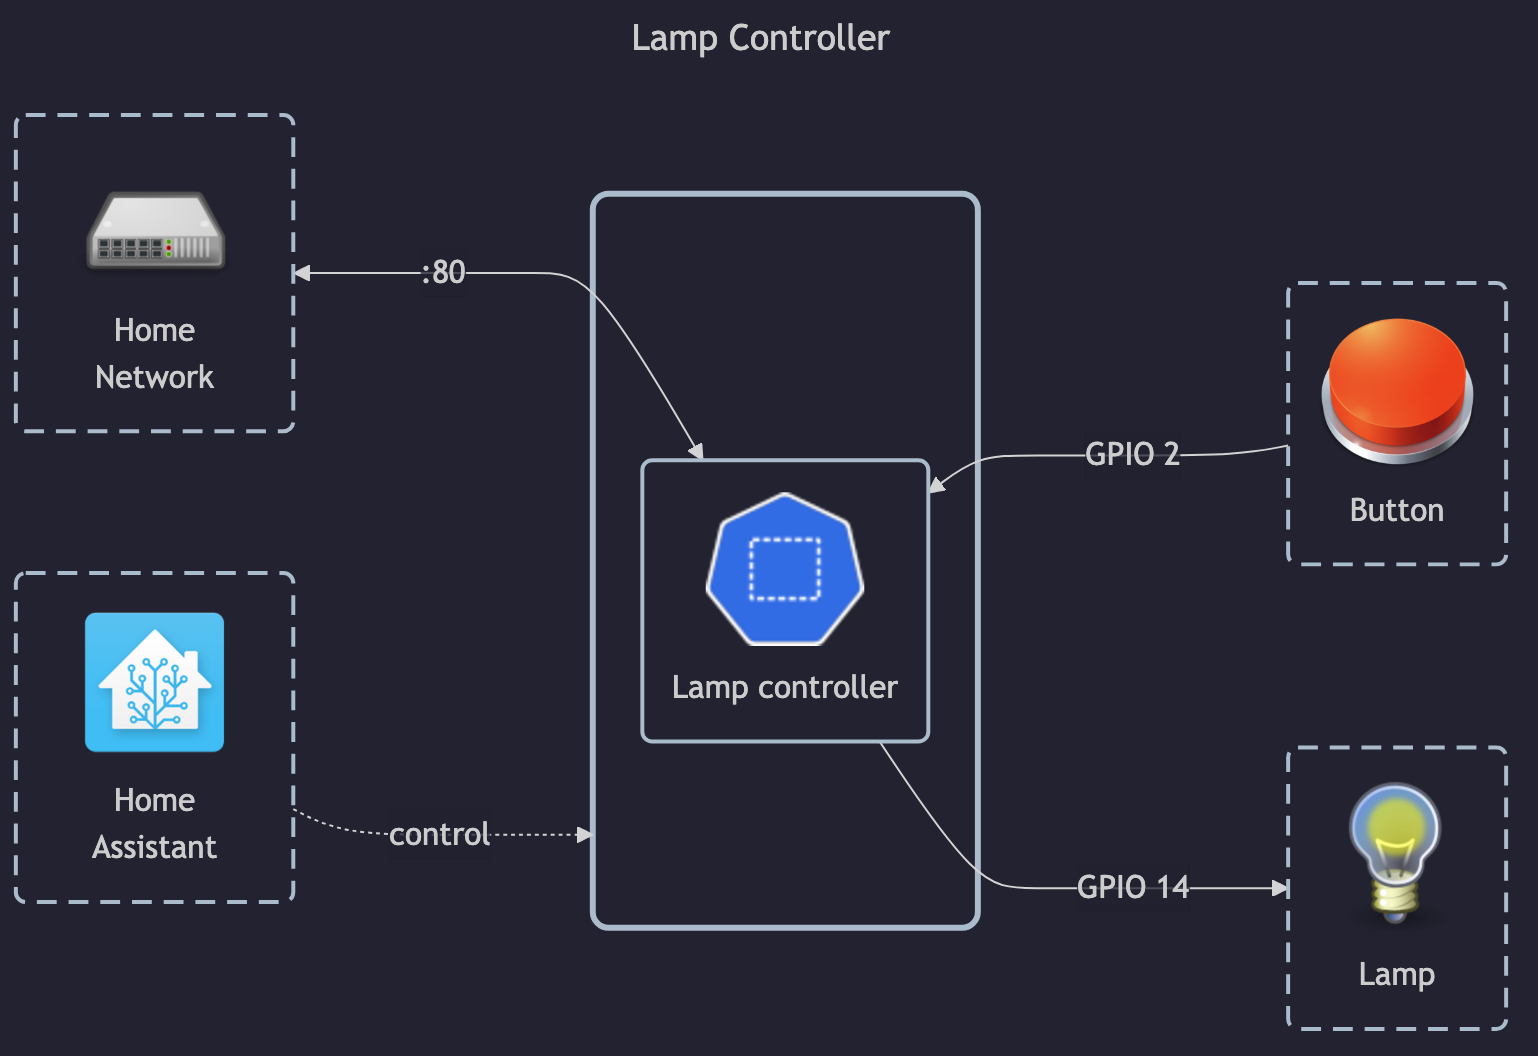
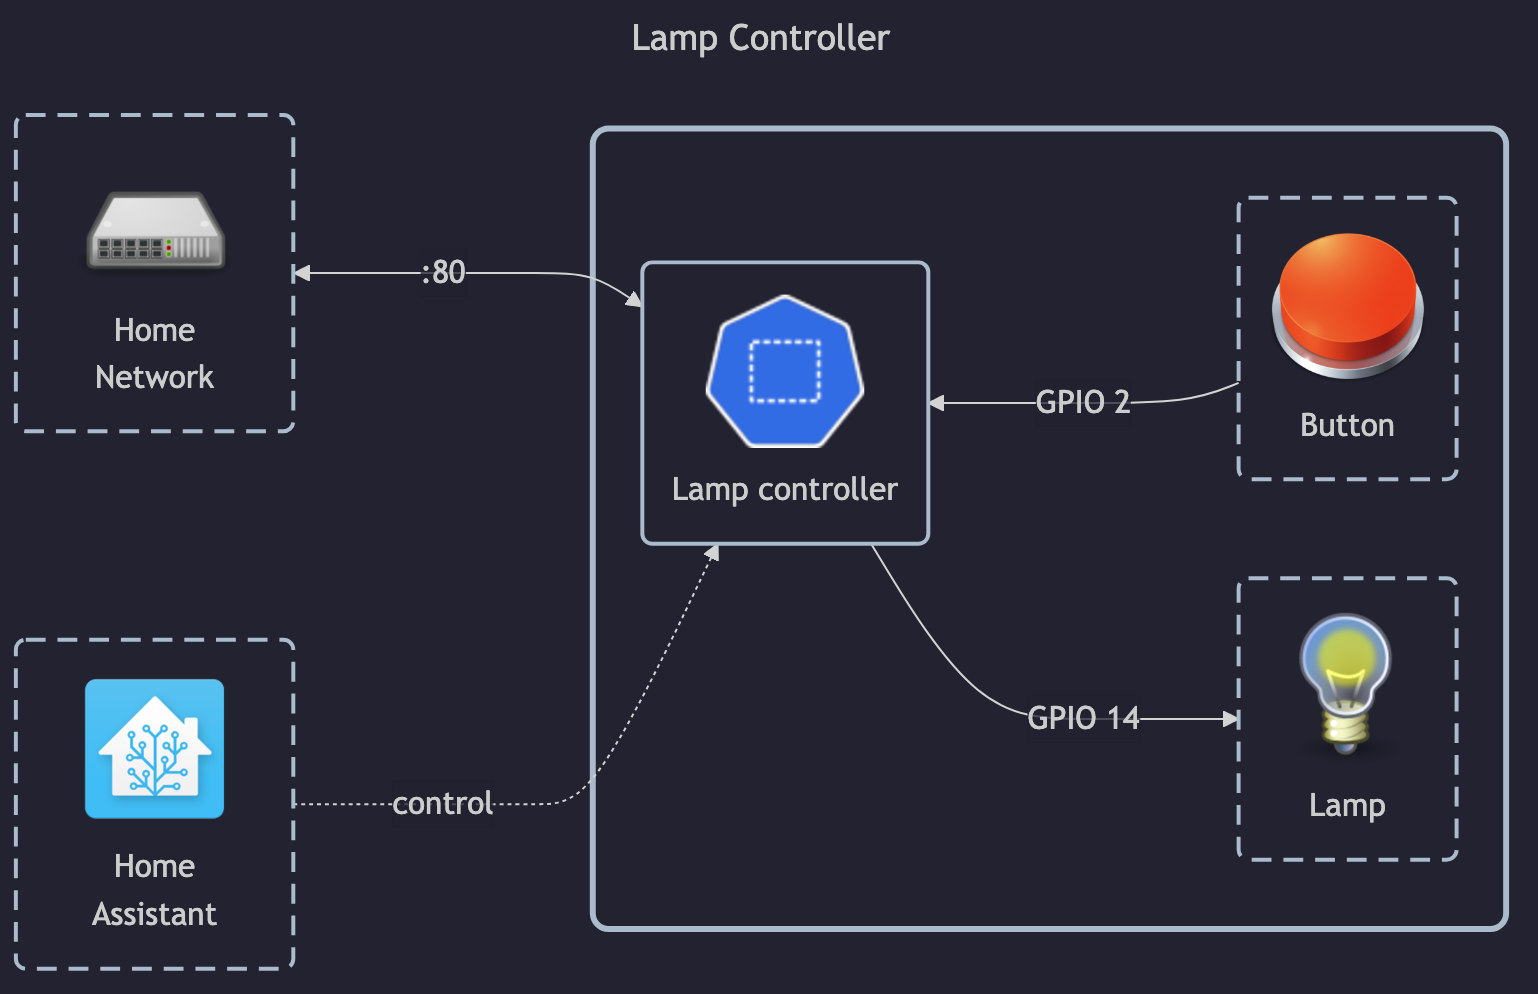
docs: update tvheadend and lamp-controller diagrams

diff --git a/icons/README.md b/icons/README.md
@@ -12,6 +12,7 @@ The Icons are obtained from following locations:
     - OSA Icons: <https://www.opensecurityarchitecture.org/cms/library/icon-library>
 - Individual icons:
     - ActualBudget: <https://github.com/actualbudget>
+    - Antenna: <https://www.flaticon.com/free-icon/antenna_1011360>
     - API: <https://www.flaticon.com/free-icon/api_1493169>
     - Apache: <https://techicons.dev/icons/apache>
     - Button: <https://commons.wikimedia.org/wiki/File:Perspective-Button-Stop-icon.png>
